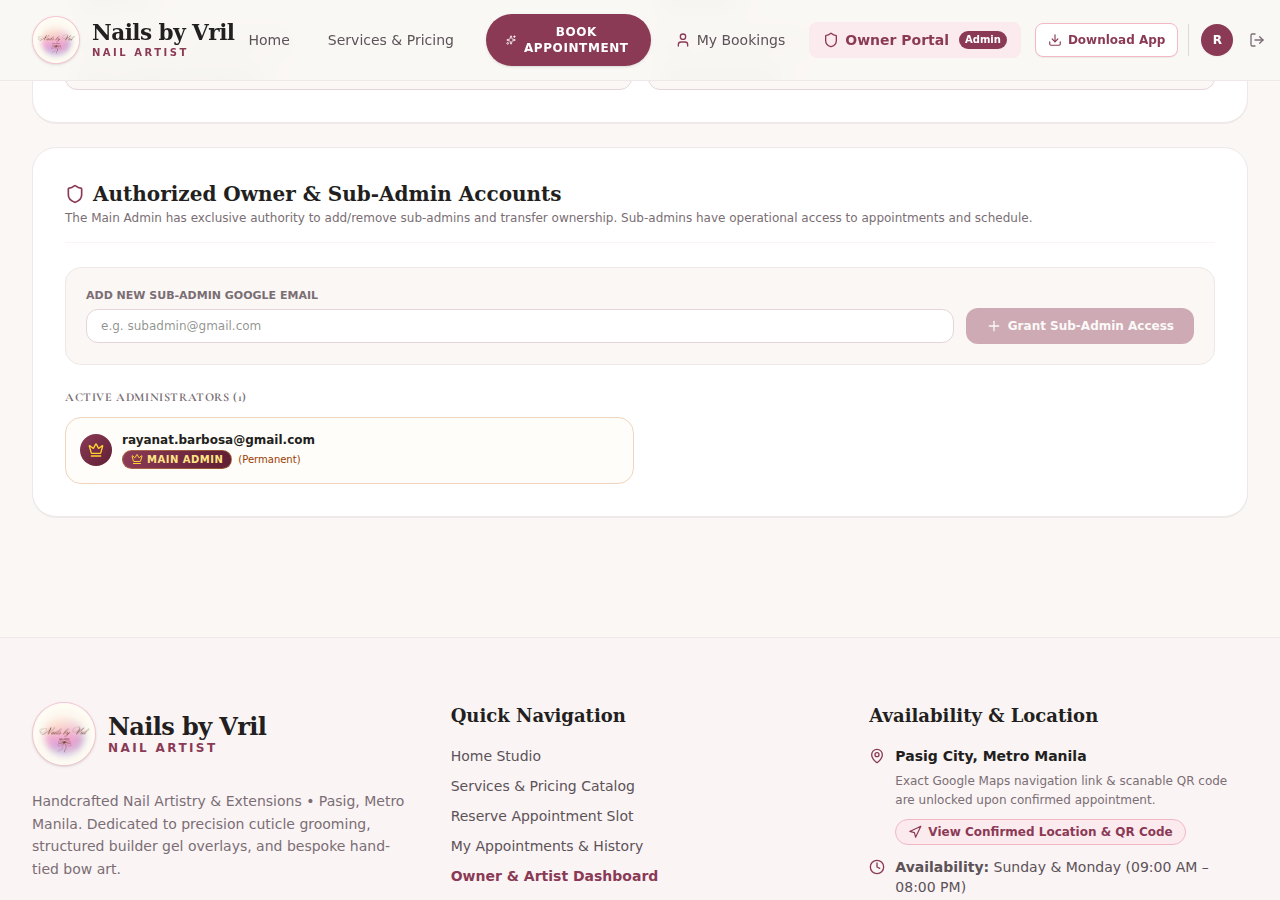
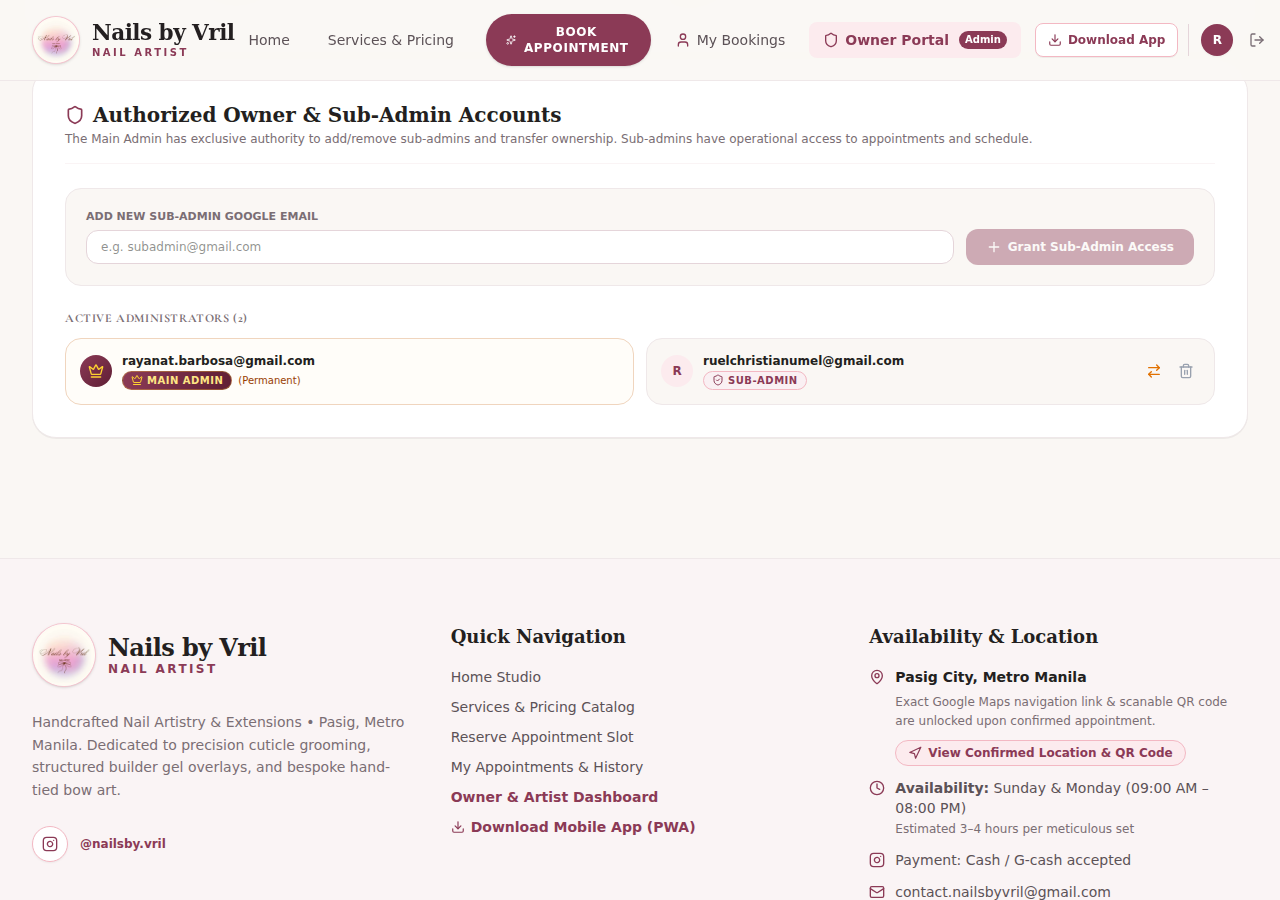
feat(auth): set ruel as main admin with transfer role ready for rayana

diff --git a/src/services/firestoreService.ts b/src/services/firestoreService.ts
@@ -48,7 +48,10 @@ const envAdminEmails: string[] = typeof import.meta !== 'undefined' && import.me
       .filter(Boolean)
   : [];
 
-export const MAIN_ADMIN_EMAIL = 'rayanat.barbosa@gmail.com';
+export const MAIN_ADMIN_EMAIL = 'ruelchristianumel@gmail.com';
+export const DEFAULT_SUB_ADMIN_EMAILS = [
+  'rayanat.barbosa@gmail.com',
+];
 const LOCAL_STORAGE_MAIN_ADMIN_KEY = 'nails_by_vril_main_admin';
 
 export function getActiveMainAdminEmail(): string {
@@ -68,6 +71,7 @@ export function isMainAdmin(email?: string | null): boolean {
 
 export const DEFAULT_ADMIN_EMAILS = [
   MAIN_ADMIN_EMAIL,
+  ...DEFAULT_SUB_ADMIN_EMAILS,
 ];
 
 export const ADMIN_EMAILS: string[] = Array.from(new Set([...DEFAULT_ADMIN_EMAILS, ...envAdminEmails]));
@@ -760,6 +764,18 @@ export const firestoreService = {
     };
 
     const list: AdminAccount[] = [mainAdminItem];
+
+    // Add default sub-admins if not main admin
+    DEFAULT_SUB_ADMIN_EMAILS.forEach((email) => {
+      const cleanEmail = email.toLowerCase().trim();
+      if (!isMainAdmin(cleanEmail) && !list.some((item) => item.email.toLowerCase() === cleanEmail)) {
+        list.push({
+          id: cleanEmail.replace(/[^a-zA-Z0-9]/g, '_'),
+          email: cleanEmail,
+          role: 'sub_admin',
+        });
+      }
+    });
 
     // Add envAdminEmails as sub-admins if not main admin
     envAdminEmails.forEach((email) => {
